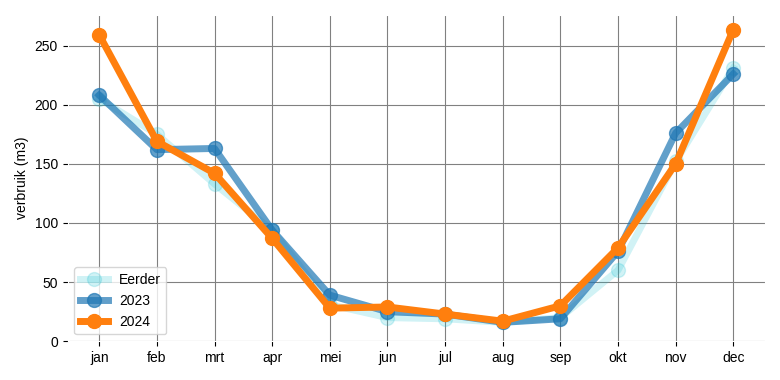
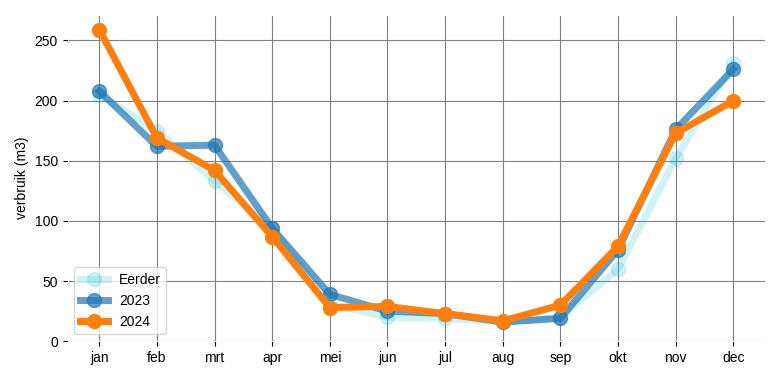
feat: tm 20241227

Changed region(s): [[0.0308, 0.0579, 0.9846, 0.8684], [0.0615, 0.7237, 0.0923, 0.7526]]

diff --git a/energieverbruik.py b/energieverbruik.py
@@ -44,12 +44,12 @@ VORIG_JAAR = HUIDIG_JAAR - 1
 #
 # INVOEREN GEGEVENS HUIDIGE JAAR
 #
-MAAND = Month.nov
-DAG_VAN_MAAND = 12
+MAAND = Month.dec
+DAG_VAN_MAAND = 27
 DAGEN_IN_MAAND = MAAND.days 
-VERBRUIK_GAS = 60
-VERBRUIK_ELEKTRICITEIT = 47
-VERBRUIK_WATER = 4.28
+VERBRUIK_GAS = 174
+VERBRUIK_ELEKTRICITEIT = 102
+VERBRUIK_WATER = 7.62
 PRIJS_GAS = 1.2469
 PRIJS_ELEKTRICITEIT = 0.2569
 PRIJS_WATER = 1.021
@@ -85,15 +85,14 @@ vastGasMnd = sumZomerverbruik / 3
 vastGasJr = vastGasMnd*12
 
 # Bereken gemiddelde graaddagen per maand voor afgelopen vijf jaar
-gemGraaddagen = ((df['grddg_2019'] + df['grddg_2020']
-                  + df['grddg_2021'] + df['grddg_2022'] + df['grddg_2023'])
-                 / 5).round(2)
+gemGraaddagen = ((df['grddg_2019'] + df['grddg_2020'] + df['grddg_2021']
+                  + df['grddg_2022'] + df['grddg_2023']) / 5).round(2)
 
 # Bereken percentage verbruik per maand voor graaddagen
 sumGraaddagen = 0
 for i in gemGraaddagen:
     sumGraaddagen += i
-percGraaddagen = (gemGraaddagen / sumGraaddagen).round(2)
+percGraaddagen = (gemGraaddagen / sumGraaddagen)
 
 # Bereken percentage verbruik per maand voor gasverbruik vorig jaar
 sumVerbrGasVrgJr = 0
